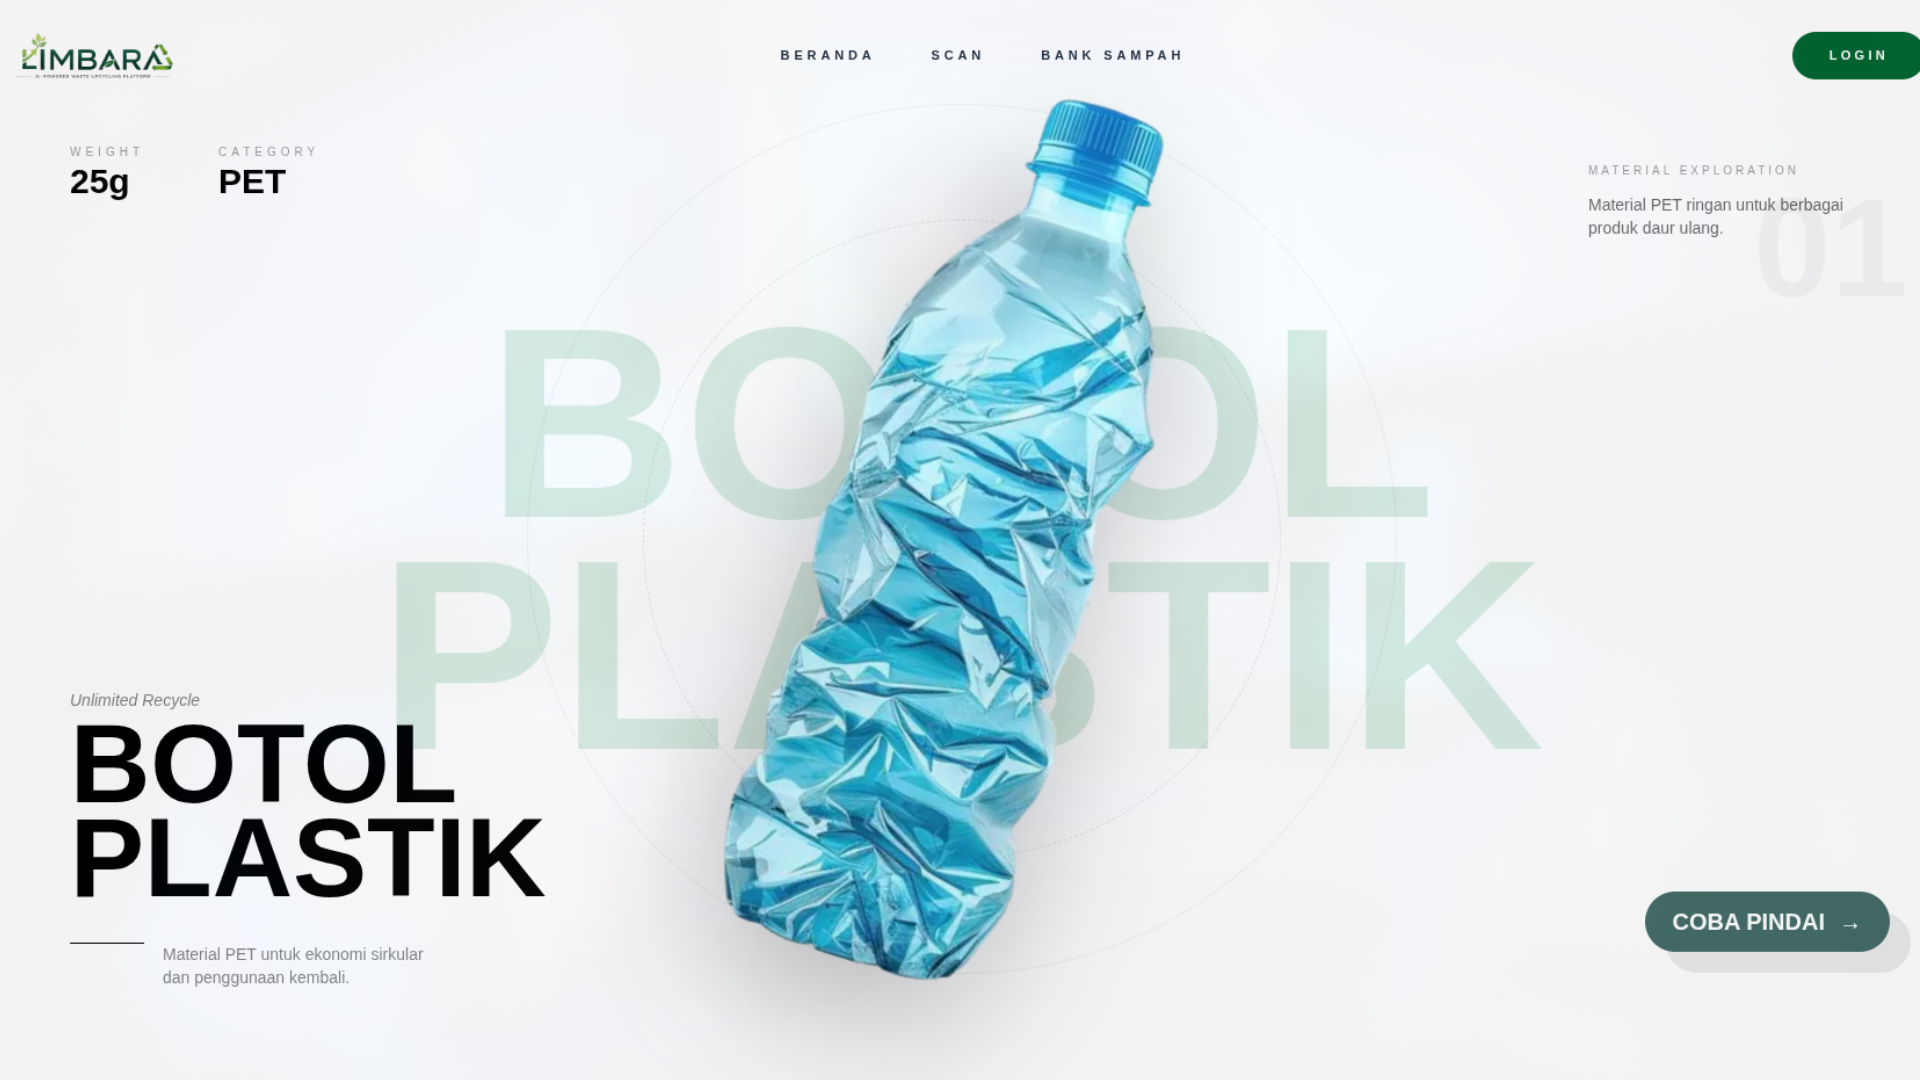
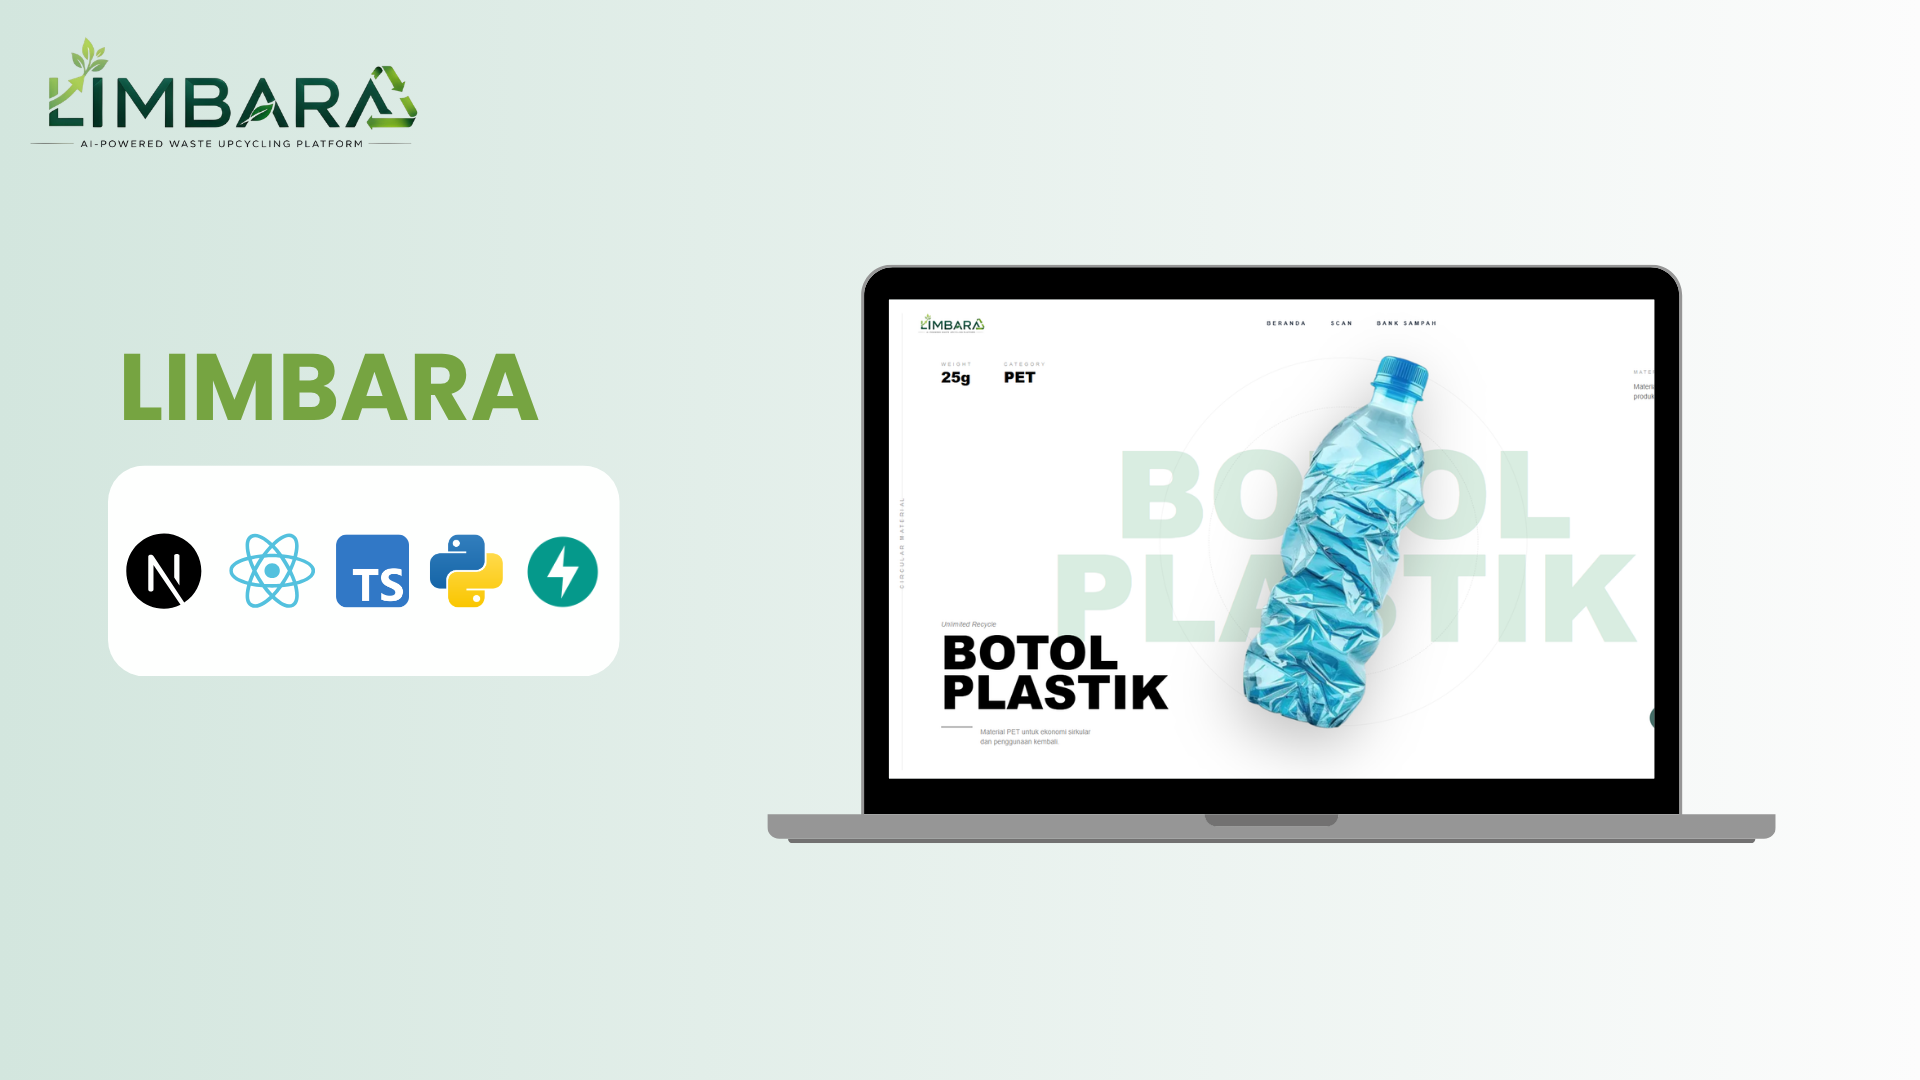
update proyek porto

diff --git a/src/data/projects.ts b/src/data/projects.ts
@@ -14,25 +14,25 @@ export const projectsData: Project[] = [
   {
     id: "limbara",
     title: "Waste Detection AI",
-    description: "Sistem deteksi sampah berbasis AI yang menggunakan YOLOv8 untuk mengenali dan mengklasifikasikan jenis sampah plastik dari gambar, dilengkapi backend FastAPI dan integrasi Gemini API untuk memberikan wawasan serta rekomendasi pengelolaan sampah secara kontekstual.",
+    description: "AI-based waste detection system utilizing YOLOv8 and Gemini API.",
     imageSrc: "/img/projects/limbara.png",
-    githubUrl: "",
-    liveUrl: "",
+    githubUrl: "https://github.com/zollahrp/limbara",
+    liveUrl: "https://limbara.vercel.app",
     technologies: ["Python", "FastAPI", "YOLOv8", "Docker", "Gemini API"],
   },
   {
     id: "poultrylink",
     title: "PoultryLink",
-    description: "Platform marketplace multi-vendor untuk industri unggas yang memudahkan peternak dan pembeli bertransaksi secara online, mencakup fitur eksplorasi produk, pemesanan, dan sinkronisasi data secara real-time melalui REST API.",
-    imageSrc: "/img/projects/poultrylink.png",
-    githubUrl: "",
+    description: "A multi-vendor marketplace platform for the poultry industry designed to facilitate seamless online transactions between farmers and buyers.",
+    imageSrc: "/img/projects/poltrylink1.png",
+    githubUrl: "https://github.com/Rivalfitrah/Poultrylink-web",
     liveUrl: "",
     technologies: ["HTML", "CSS", "JavaScript", "Axios", "Laravel", "MySQL"],
   },
   {
     id: "fast-fashion-webgis",
     title: "Fast Fashion WebGIS",
-    description: "Platform geospasial berbasis web yang membantu pengguna menemukan toko fashion melalui peta interaktif, dengan fitur pencarian dan filter lokasi berdasarkan kategori dan area geografis.",
+    description: "A web-based geospatial platform that helps users locate fashion stores through an interactive map, featuring advanced search capabilities and location filtering by category and geographic area.",
     imageSrc: "/img/projects/fast-fashion.png",
     githubUrl: "",
     liveUrl: "",
@@ -41,7 +41,7 @@ export const projectsData: Project[] = [
   {
     id: "mitra-home",
     title: "Mitra Home Mobile Apps",
-    description: "Aplikasi mobile internal perusahaan yang memberikan karyawan akses terpusat ke informasi kerja, termasuk fitur penjadwalan serta kalkulator KPR dan pajak untuk membantu perencanaan finansial.",
+    description: "A mobile application for mortgage (KPR) calculations and property management, serving as an all-in-one property solution in the palm of your hand.",
     imageSrc: "/img/projects/mitra-home.png",
     githubUrl: "",
     liveUrl: "",
@@ -51,24 +51,15 @@ export const projectsData: Project[] = [
     id: "elabs",
     title: "CervoSys e-Labs University Lab Management Platform",
     description: "A university lab needed a platform for students and staff to schedule lab time, borrow equipment, and manage rentals replacing what had been handled through manual booking sheets and email.",
-    imageSrc: "/img/projects/elabs1.png",
+    imageSrc: "/img/projects/elabs.png",
     githubUrl: "",
     liveUrl: "",
     technologies: ["Vue.js", "Nuxt.js", "Tailwind CSS", "express.js", "postgreSQL"],
   },
   {
-    id: "afrida-store",
-    title: "Afrida Store",
-    description: "An e-commerce platform for selling handmade crafts and accessories.",
-    imageSrc: "/img/projects/afrida.png",
-    githubUrl: "",
-    liveUrl: "",
-    technologies: ["Next.js", "Tailwind CSS", "TypeScript", "React"],
-  },
-  {
     id: "mitra-bangun-desain",
     title: "Mitra Bangun Desain",
-    description: "Platform web untuk perusahaan desain yang menghadirkan fitur tanda tangan digital pada proses persetujuan klien, sehingga waktu verifikasi dokumen dapat dipangkas secara signifikan.",
+    description: "A web platform for a design company featuring digital signatures for the client approval process, significantly reducing document verification time.",
     imageSrc: "/img/projects/mitra-bangun-desain.png",
     githubUrl: "",
     liveUrl: "",
@@ -77,7 +68,7 @@ export const projectsData: Project[] = [
   {
     id: "smk-madya",
     title: "Web Absensi & Monitoring SMK Madya",
-    description: "Memimpin pengembangan frontend untuk sistem absensi berbasis geolokasi yang digunakan oleh lebih dari 100 pengguna, membangun dashboard responsif untuk check-in, monitoring, dan pelaporan, serta mengintegrasikan REST API untuk data absensi real-time dan validasi lokasi.",
+    description: "Geolocation-based attendance and monitoring system for a school, handling daily check-ins for staff and students with automated absence detection.",
     imageSrc: "/img/projects/smk-madya.png",
     githubUrl: "",
     liveUrl: "",
@@ -86,10 +77,37 @@ export const projectsData: Project[] = [
   {
     id: "reva-baju-anak",
     title: "Reva Baju Anak",
-    description: "Mengembangkan aplikasi web e-commerce yang responsif dengan fitur listing produk, keranjang belanja, dan proses checkout, serta mengintegrasikan payment gateway Midtrans Snap untuk transaksi pembayaran yang aman dan mudah digunakan.",
-    imageSrc: "/img/projects/reva-baju.png",
+    description: "Developed a responsive e-commerce web application for a children's clothing store, integrated with Midtrans payment gateway.",
+    imageSrc: "/img/projects/reva-baju-anak.png",
     githubUrl: "",
     liveUrl: "",
     technologies: ["Golang", "React.js", "Axios", "Midtrans", "PostgreSQL"],
   },
+  {
+    id: "Dinas-Kesehatan-Cianjur",
+    title: "CMS Dinas Kesehatan Cianjur",
+    description: "Built a Content Management System (CMS) for the Cianjur Health Office, featuring content management, patient data administration, and health statistical reporting.",
+    imageSrc: "/img/projects/proyek10.png",
+    githubUrl: "",
+    liveUrl: "",
+    technologies: ["Laravel", "php", "MySQL"],
+  },
+  {
+    id: "simedika",
+    title: "SIMEDIKA",
+    description: "A management dashboard website for SIMEDIKA to streamline and optimize medical service data management.",  
+    imageSrc: "/img/projects/proyek11.png",
+    githubUrl: "",
+    liveUrl: "",
+    technologies: ["Laravel", "php", "MySQL"],
+  },
+  {
+    id: "kodehana",
+    title: "KODEHANA",
+    description: "Company profile website for KODEHANA, a creative agency focusing on digital solutions.",  
+    imageSrc: "/img/projects/proyek12.png",
+    githubUrl: "",
+    liveUrl: "",
+    technologies: ["Next.js", "Tailwind CSS", "react", "TypeScript"],
+  }
 ];

diff --git a/src/components/section/SkillSection.tsx b/src/components/section/SkillSection.tsx
@@ -19,9 +19,12 @@ function SkillSection() {
     { name: "Vue.js", icon: "https://cdn.simpleicons.org/vue.js" },
     { name: "Node.js", icon: "https://cdn.simpleicons.org/nodedotjs" },
     { name: "Express.js", icon: "https://cdn.simpleicons.org/express/white" },
-    { name: "prisma", icon: "https://cdn.simpleicons.org/prisma/white" },
+    { name: "Prisma", icon: "https://cdn.simpleicons.org/prisma/white" },
     { name: "MongoDB", icon: "https://cdn.simpleicons.org/mongodb" },
     { name: "Firebase", icon: "https://cdn.simpleicons.org/firebase" },
+    { name: "Docker", icon: "https://cdn.simpleicons.org/docker" },
+    { name: "Python", icon: "https://cdn.simpleicons.org/python" },
+    { name: "FastAPI", icon: "https://cdn.simpleicons.org/fastapi" },
   ];
 
   const containerVariants = {
@@ -29,17 +32,17 @@ function SkillSection() {
     visible: {
       opacity: 1,
       transition: {
-        staggerChildren: 0.2, // Animasi anak elemen akan muncul berurutan
+        staggerChildren: 0.15, // Dibuat sedikit lebih cepat (0.15) agar tidak terlalu lama menunggu jika skill banyak
       },
     },
-  }
+  };
 
   const itemVariants = {
     hidden: { opacity: 0, y: 20 },
     visible: { 
       opacity: 1, 
       y: 0,
-      transition: { duration: 0.9 }
+      transition: { duration: 0.5 } // Durasi disesuaikan agar lebih responsif
     },
   };
 
@@ -47,37 +50,43 @@ function SkillSection() {
     <section className="min-h-screen py-16 bg-black" id='skills'>
       <div className="max-w-7xl mx-auto px-4">
         <motion.h2
-        initial={{ y: -100, opacity: 0 }}
-        whileInView={{ y: 0, opacity: 1 }}
-        transition={{ duration: 0.5 }}
-        viewport={{ once: true, amount: 0.3 }}
-        className="text-3xl font-bold mb-10 mt-15 text-center text-blue-400">
+          initial={{ y: -50, opacity: 0 }}
+          whileInView={{ y: 0, opacity: 1 }}
+          transition={{ duration: 0.5 }}
+          viewport={{ once: true, amount: 0.3 }}
+          className="text-3xl font-bold mb-10 mt-15 text-center text-blue-400"
+        >
           My Skills
         </motion.h2>
 
+        {/* PARENT CONTAINER: Cukup deklarasikan initial dan whileInView di sini */}
         <motion.div
           variants={containerVariants}
-          transition={{ duration: 0.5 }}
           initial="hidden"
           whileInView="visible"
-          viewport={{ once: true, amount: 0.3 }}
-        className="grid grid-cols-2 sm:grid-cols-3 lg:grid-cols-5 gap-8">
+          viewport={{ once: true, amount: 0.1 }} // Amount dikecilkan agar animasi lebih cepat tertrigger
+          className="grid grid-cols-2 sm:grid-cols-3 lg:grid-cols-5 gap-8"
+        >
           {skills.map((skill, index) => (
-            <div
+            /* CHILD CONTAINER: Ubah <div> biasa menjadi <motion.div> dan cukup panggil variants */
+            <motion.div
               key={index}
+              variants={itemVariants}
               className="flex flex-col items-center p-6 bg-[#0f0f0f] rounded-xl border border-blue-500/30 shadow-md hover:shadow-blue-500/40 transition duration-300"
             >
-              <motion.div
-              variants={itemVariants}
-              initial="hidden"
-              whileInView="visible"
-              viewport={{ once: true, amount: 0.3 }}
-              
-              className="w-16 h-16 rounded-full border border-blue-500/60 flex items-center justify-center mb-4">
-                <Image width={100} height={100} src={skill.icon} alt={skill.name} className="w-8 h-8" />
-              </motion.div>
+              {/* Bagian bungkus icon dikembalikan menjadi <div> biasa karena animasinya sudah ditangani oleh parent card-nya */}
+              <div className="w-16 h-16 rounded-full border border-blue-500/60 flex items-center justify-center mb-4">
+                <Image 
+                  width={100} 
+                  height={100} 
+                  src={skill.icon} 
+                  alt={skill.name} 
+                  className="w-8 h-8" 
+                  unoptimized // SUDAH BENAR! Ini kunci anti error 502
+                />
+              </div>
               <h3 className="text-white text-center font-semibold">{skill.name}</h3>
-            </div>
+            </motion.div>
           ))}
         </motion.div>
       </div>

diff --git a/src/components/layout/ProjectCard.tsx b/src/components/layout/ProjectCard.tsx
@@ -3,7 +3,7 @@ import React, { useState } from "react";
 import { Github, Link } from "lucide-react";
 import { AnimatePresence, motion } from "framer-motion";
 import Image from "next/image";
-import { Project } from "@/data/projects"; // Sesuaikan path alias jika berbeda
+import { Project } from "@/data/projects";
 
 interface ProjectCardProps {
   project: Project;
@@ -18,12 +18,16 @@ function ProjectCard({ project }: ProjectCardProps) {
       whileInView={{ opacity: 1, y: 0 }}
       viewport={{ once: true, amount: 0.3 }}
       transition={{ duration: 0.5, ease: "easeInOut" }}
-      className="border border-cyan-200 rounded-xl"
+      // 1. Tambahkan h-full agar card mengikuti tinggi maksimal dari baris grid
+      className="border border-cyan-200 rounded-xl h-full"
       onMouseEnter={() => setIsHovered(true)}
       onMouseLeave={() => setIsHovered(false)}
     >
-      <div className="p-2 bg-[#0f0f0f] rounded-xl shadow-md hover:shadow-blue-500/40 transition duration-300">
-        <div className="relative group overflow-hidden rounded-xl">
+      {/* 2. Tambahkan flex flex-col dan h-full di bungkus utama ini */}
+      <div className="p-2 bg-[#0f0f0f] rounded-xl shadow-md hover:shadow-blue-500/40 transition duration-300 flex flex-col h-full">
+        
+        {/* Bagian Gambar (Tetap sama) */}
+        <div className="relative group overflow-hidden rounded-xl shrink-0">
           <Image
             src={project.imageSrc}
             alt={project.title}
@@ -81,11 +85,17 @@ function ProjectCard({ project }: ProjectCardProps) {
           </AnimatePresence>
         </div>
 
-        {/* Deskripsi Proyek */}
-        <div className="p-4">
-          <h3 className="font-bold text-white text-lg">{project.title}</h3>
-          <p className="text-gray-400 text-sm mt-1">{project.description}</p>
+        {/* 3. Deskripsi Proyek (Tambahkan flex-grow) */}
+        <div className="p-4 flex flex-col flex-grow">
+          {/* Tambahkan line-clamp-2 pada judul jika ingin judul yang panjang juga terpotong (opsional) */}
+          <h3 className="font-bold text-white text-lg line-clamp-2">{project.title}</h3>
+          
+          {/* 4. Tambahkan line-clamp-3 pada deskripsi */}
+          <p className="text-gray-400 text-sm mt-2 line-clamp-3">
+            {project.description}
+          </p>
         </div>
+
       </div>
     </motion.div>
   );

diff --git a/src/components/section/AboutSection.tsx b/src/components/section/AboutSection.tsx
@@ -58,26 +58,23 @@ function AboutSection() {
               variants={itemVariants}
               className="text-lg text-gray-300 leading-relaxed max-w-2xl mx-auto lg:mx-0"
             >
-              Saya adalah seorang individu yang memiliki minat besar dalam
-              bidang teknologi, khususnya dalam pengembangan perangkat lunak dan
-              pemanfaatan teknologi untuk menyelesaikan masalah nyata.
-              Berpengalaman dalam membangun proyek digital baik secara individu
-              maupun tim, saya terbiasa bekerja dengan berbagai teknologi modern
-              Saya terus bersemangat untuk belajar hal-hal baru,
-              mengikuti tren teknologi terkini, dan mengembangkan solusi
-              inovatif yang berdampak positif. Dengan latar belakang pendidikan
-              di bidang teknologi dan kemampuan analitis yang kuat, saya siap
-              berkontribusi dalam lingkungan kerja yang dinamis dan kolaboratif.
+            Software Engineering student at IPB University with a focus on Web Development.
+            Experienced in building real-world applications based on user needs and collaborating within
+            development teams. Skilled in developing end-to-end applications from frontend to backend, including
+            the design and integration of REST APIs. Technologies include React.js, Next.js, Laravel, and
+            Node.js, Python
             </motion.p>
 
             <motion.div variants={itemVariants}>
-              <button
-                disabled
-                className="inline-flex items-center gap-3 bg-gray-500 text-gray-300 font-bold py-3 px-8 rounded-full cursor-not-allowed"
+              {/* Menggunakan tag <a> alih-alih <button> */}
+              <a
+                href="/assets/cv/CV_Rival_Fitrah.pdf" // Harus sesuai dengan nama file di folder public
+                download="CV_Rival_Fitrah_Dermawan.pdf" // Opsional: Nama file yang akan muncul saat diunduh pengguna
+                className="inline-flex items-center gap-3 bg-gradient-to-r from-cyan-600 to-blue-600 hover:from-cyan-500 hover:to-blue-500 text-white font-bold py-3 px-8 rounded-full shadow-lg hover:shadow-cyan-500/40 transition-all duration-300 cursor-pointer"
               >
                 <Download className="w-5 h-5" />
                 Download My CV
-              </button>
+              </a>
             </motion.div>
           </div>
 